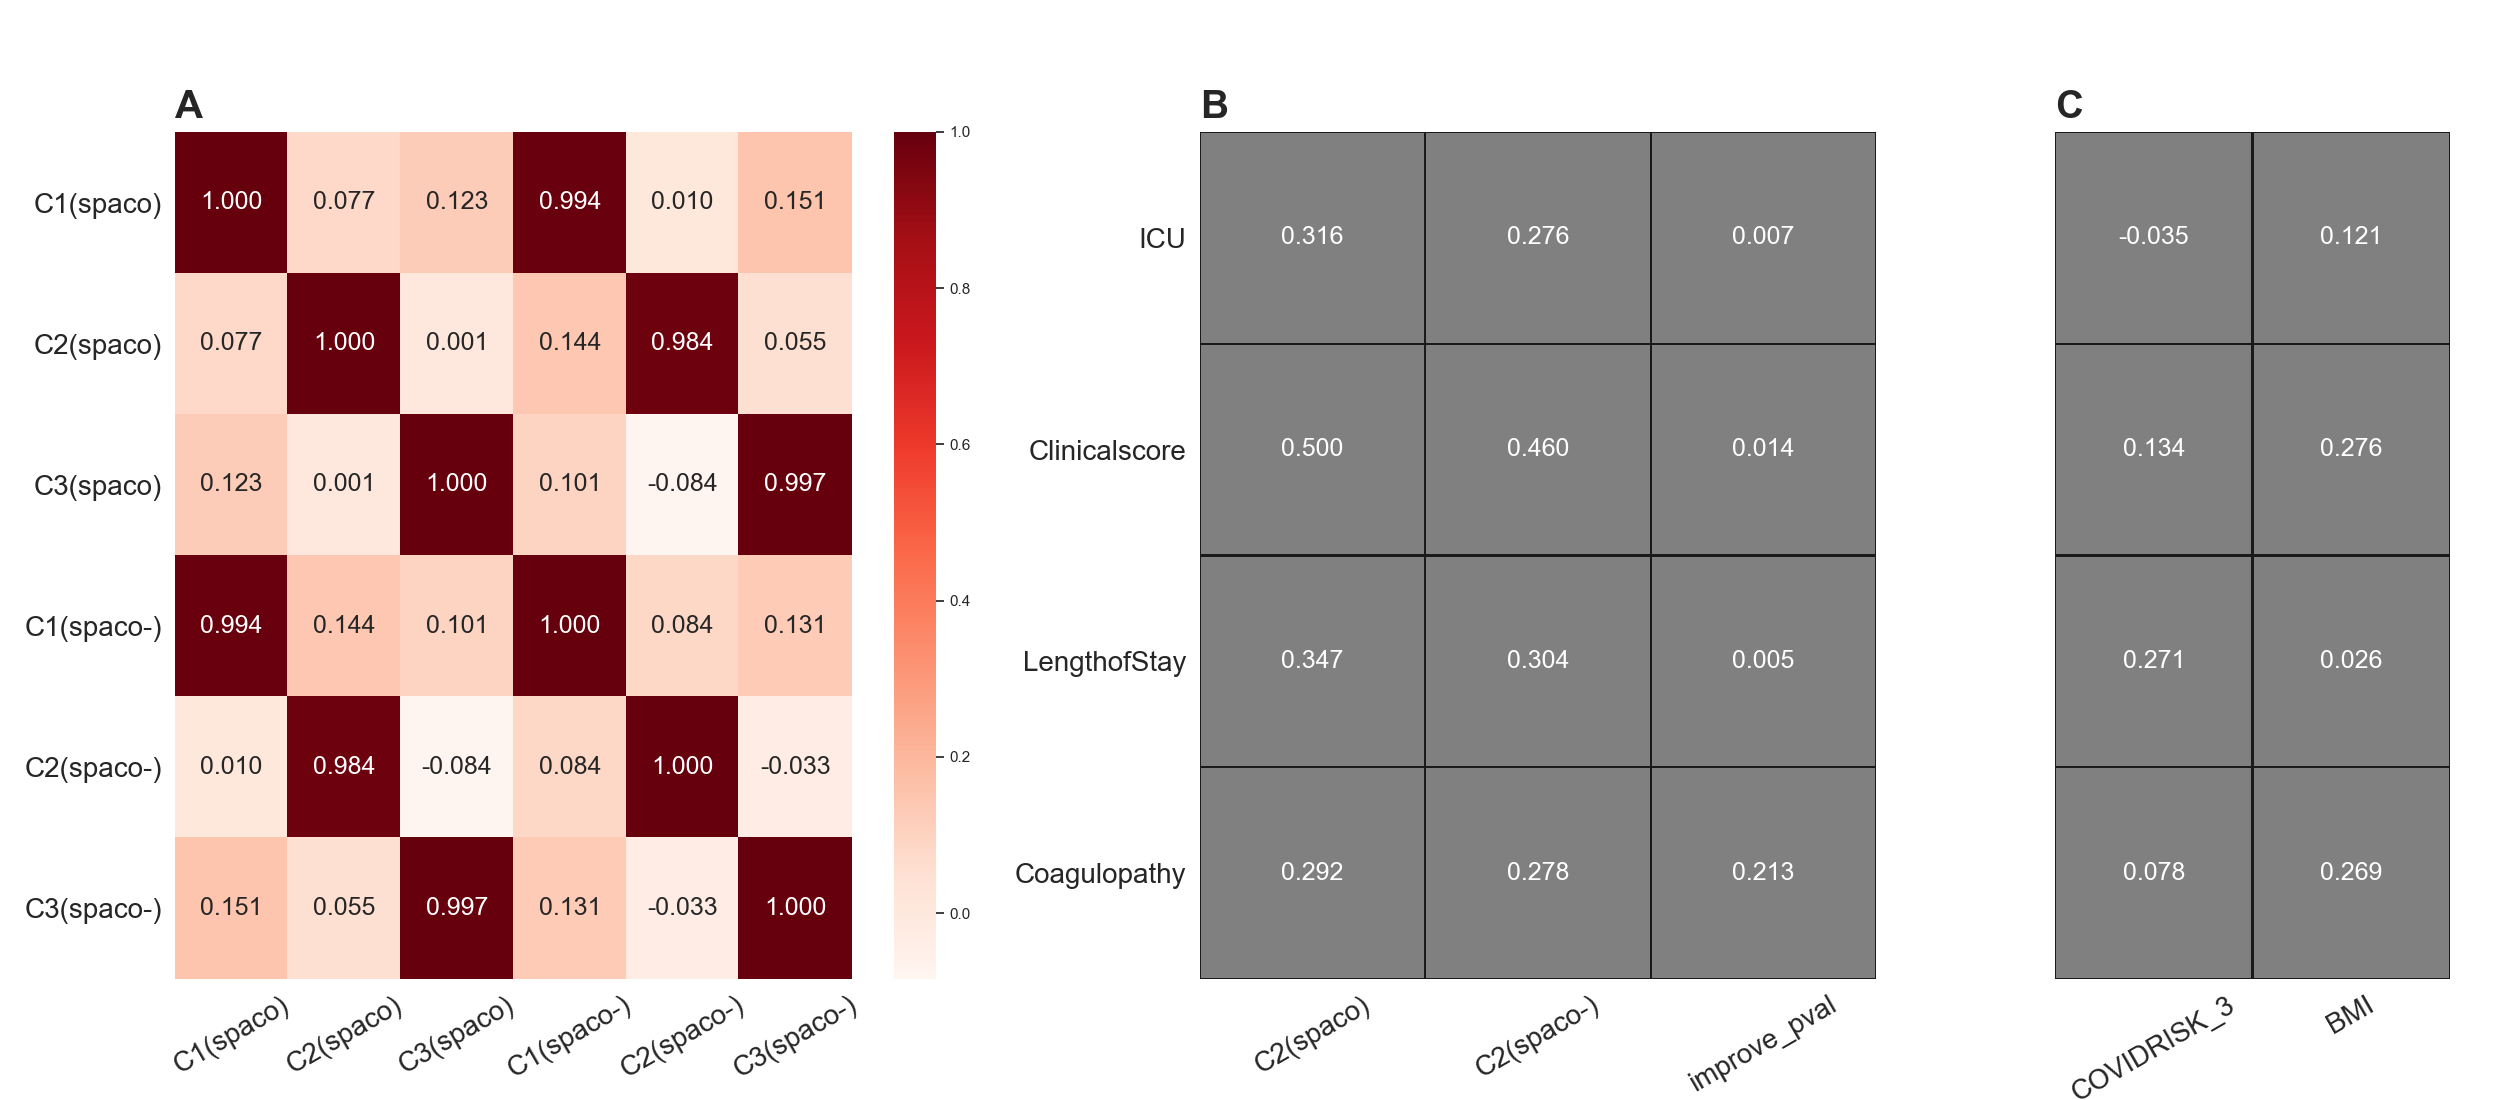
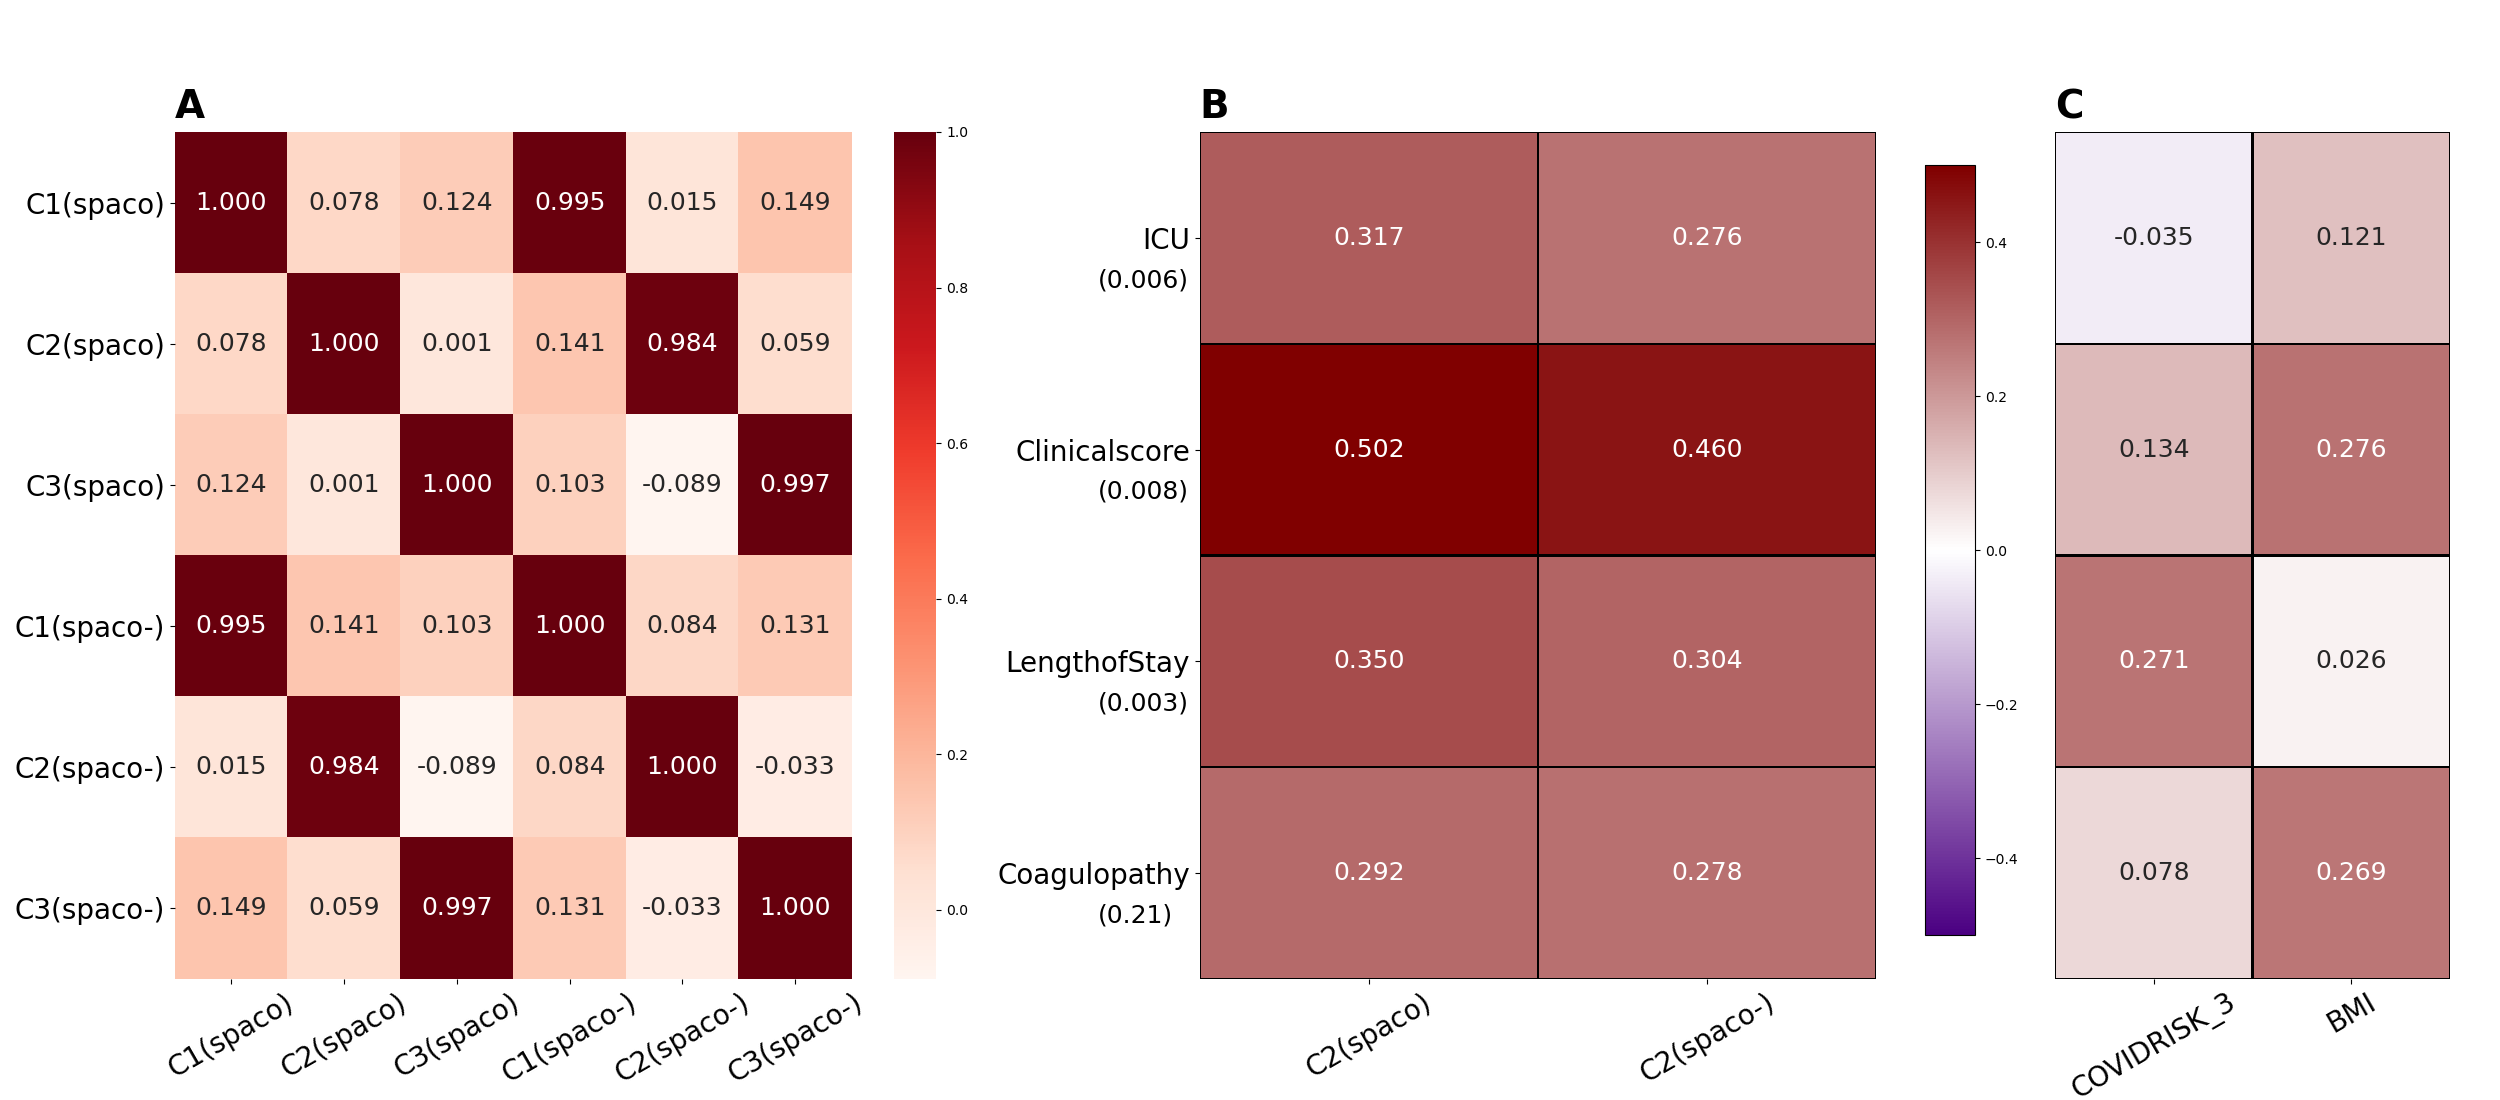
update colors

diff --git a/RealData/IMPACT_SPACOrun.py b/RealData/IMPACT_SPACOrun.py
@@ -7,6 +7,7 @@ import pickle
 import matplotlib.pyplot as plt
 from os.path import exists
 from matplotlib import patches as mpatches
+from matplotlib.colors import LinearSegmentedColormap
 
 file = "RealData/processed_IMPACTdata.npz"
 data = np.load(file, allow_pickle = True)
@@ -32,6 +33,7 @@ idx_min = np.argmin(means)
 rank_min = ranks[idx_min]
 rank = rank_min
 
+print("selected rank = "+str(rank))
 spaco.seed_everything(seed=2023)
 data_obj = dict(X=X, O=O, Z=Z,
                 time_stamps=T1, rank=rank)
@@ -82,7 +84,7 @@ A = scipy.stats.spearmanr(a = spaco_fit.mu.copy(), b=spacoNULL_fit.mu.copy(), ax
 df = pd.DataFrame(np.hstack([spaco_fit.mu.copy(),spacoNULL_fit.mu.copy()]))
 df.columns = pd.MultiIndex.from_tuples((('spaco', "C1"), ('spaco', "C2"), ('spaco', "C3"),('spaco-', "C1"), ('spaco-', "C2"), ('spaco-', "C3")))
 
-df.columns.set_levels(['spaco','spaco','spaco', 'spaco-','spaco-','spaco-'],level=0,inplace=True)
+#df.columns.set_levels(['spaco','spaco','spaco', 'spaco-','spaco-','spaco-'],level=0,inplace=True)
 
 corr = A.correlation
 corr = pd.DataFrame(corr)
@@ -143,23 +145,46 @@ A3 = scipy.stats.spearmanr(a =Z[:,[2,7]], b=Y, axis=0, nan_policy='omit')
 corr3 = A3.correlation[:2,2:]
 corr3 = pd.DataFrame(corr3, columns = columns_response, index = list(np.array(columns_covariate)[[2,7]]))
 corr3 = pd.DataFrame.transpose(corr3)
-from matplotlib.colors import ListedColormap
 
+import matplotlib as mpl
+#mpl.style.use('seaborn-v0_8')
 fig, axs = plt.subplots(1, 3, figsize=(25, 11), gridspec_kw={'width_ratios': [1.5, 1.2, .7]})
 g1 = sns.heatmap( corr, ax = axs[0],annot=True,fmt='.3f',cmap="Reds", annot_kws={'size': 18})
 
 axs[0].set_yticklabels(axs[0].get_yticklabels(), rotation=0, fontsize=20)
 axs[0].set_xticklabels(axs[0].get_xticklabels(), rotation=30, fontsize=20)
 
+cmap2 = LinearSegmentedColormap.from_list('custom', ['indigo', 'white', 'maroon'], N=256)
+ax_sns =sns.heatmap(corr2_test[['C2(spaco)','C2(spaco-)']], ax = axs[1], annot=True,fmt='.3f', cmap=cmap2, annot_kws={'size': 18},
+            linewidths=1,linecolor='k', vmin = -0.5, vmax = 0.5, cbar=False)
 
-sns.heatmap(corr2_test, ax = axs[1], annot=True,fmt='.3f', cbar=False,
-            cmap=ListedColormap(["grey"]), annot_kws={'size': 18},
-            linewidths=1,linecolor='k')
+# ax_sns = sns.heatmap(corr2_test, ax = axs[1], annot=True,fmt='.3f', cmap=cmap2, annot_kws={'size': 18},
+#             linewidths=1,linecolor='k', vmin = -0.5, vmax = 0.5)
+
 axs[1].set_yticklabels(axs[1].get_yticklabels(), rotation=0, fontsize=20)
 axs[1].set_xticklabels(axs[1].get_xticklabels(), rotation=30, fontsize=20)
 
+pvalues = corr2_test['improve_pval']
+# Add p-values to the right of the corresponding rows
+font_properties = {'fontsize': 18} #, 'fontweight': 'bold'}
+for i, p_value in enumerate(pvalues):
+    ax_sns.text(-0.3, i + 0.7, f'({round(p_value, 3)})', va='center', fontdict=font_properties)
+
+# Now we'll add a colorbar manually.
+# We define its position as [left, bottom, width, height] in the figure coordinate system
+# Adjust these values to move the colorbar.
+cbar_ax = fig.add_axes([0.77, 0.15, 0.02, 0.7])
+
+# Add the colorbar to the figure
+fig.colorbar(axs[1].collections[0], cax=cbar_ax, orientation='vertical')
+
+# sns.heatmap(corr2_test, ax = axs[1], annot=True,fmt='.3f', cbar=False,
+#             cmap=ListedColormap(["grey"]), annot_kws={'size': 18},
+#             linewidths=1,linecolor='k')
+
+
 g3= sns.heatmap(corr3, ax = axs[2], annot=True,fmt='.3f', cbar=False,
-            cmap=ListedColormap(["grey"]), annot_kws={'size': 18},
+            cmap=cmap2, annot_kws={'size': 18}, vmin = -0.5, vmax = 0.5,
             linewidths=1,linecolor='k',yticklabels=False)
 axs[2].set_xticklabels(axs[2].get_xticklabels(), rotation=30, fontsize=20)
 fig.subplots_adjust(left=0.07, right=0.98, wspace = .28)
@@ -168,6 +193,7 @@ axs[1].set_title("B", loc="left", fontsize=28, fontweight='bold', pad=10)
 axs[2].set_title("C", loc="left", fontsize=28, fontweight='bold', pad=10)
 #fig.show()
 curpath = '/Users/lg689/Desktop/SPACOexperments'
+#FIG_file = curpath + '/RealData/estimation_response.png'
 FIG_file = curpath + '/RealData/estimation_response.png'
 fig.savefig(FIG_file)
 plt.close(fig)
